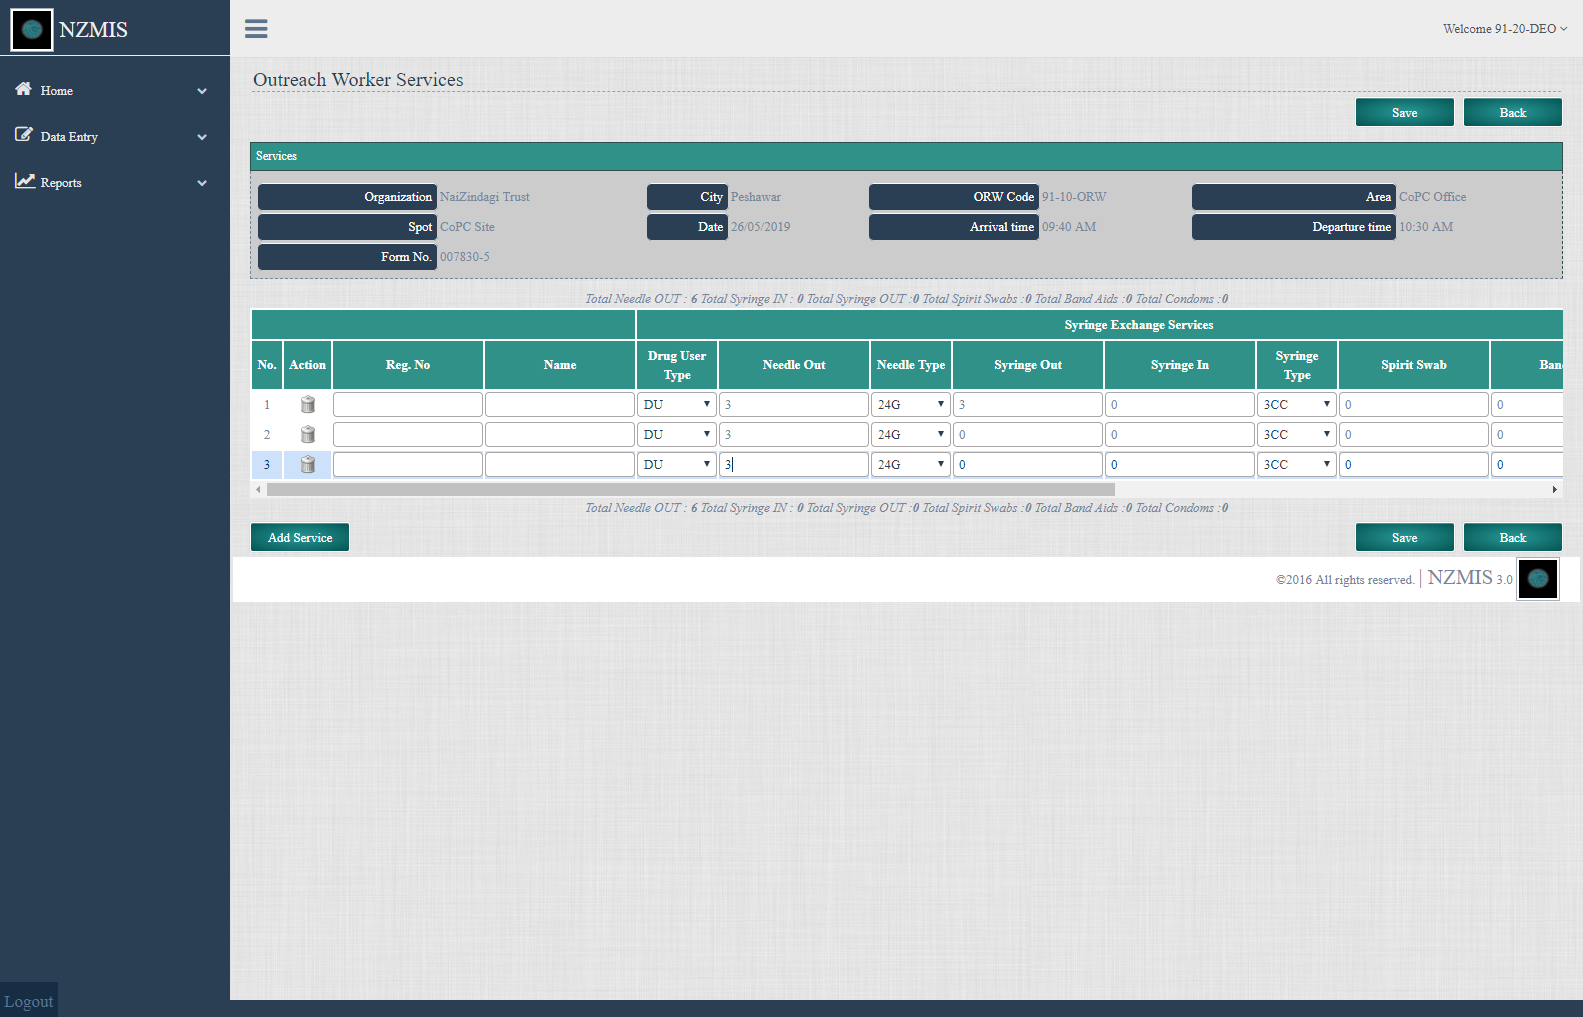
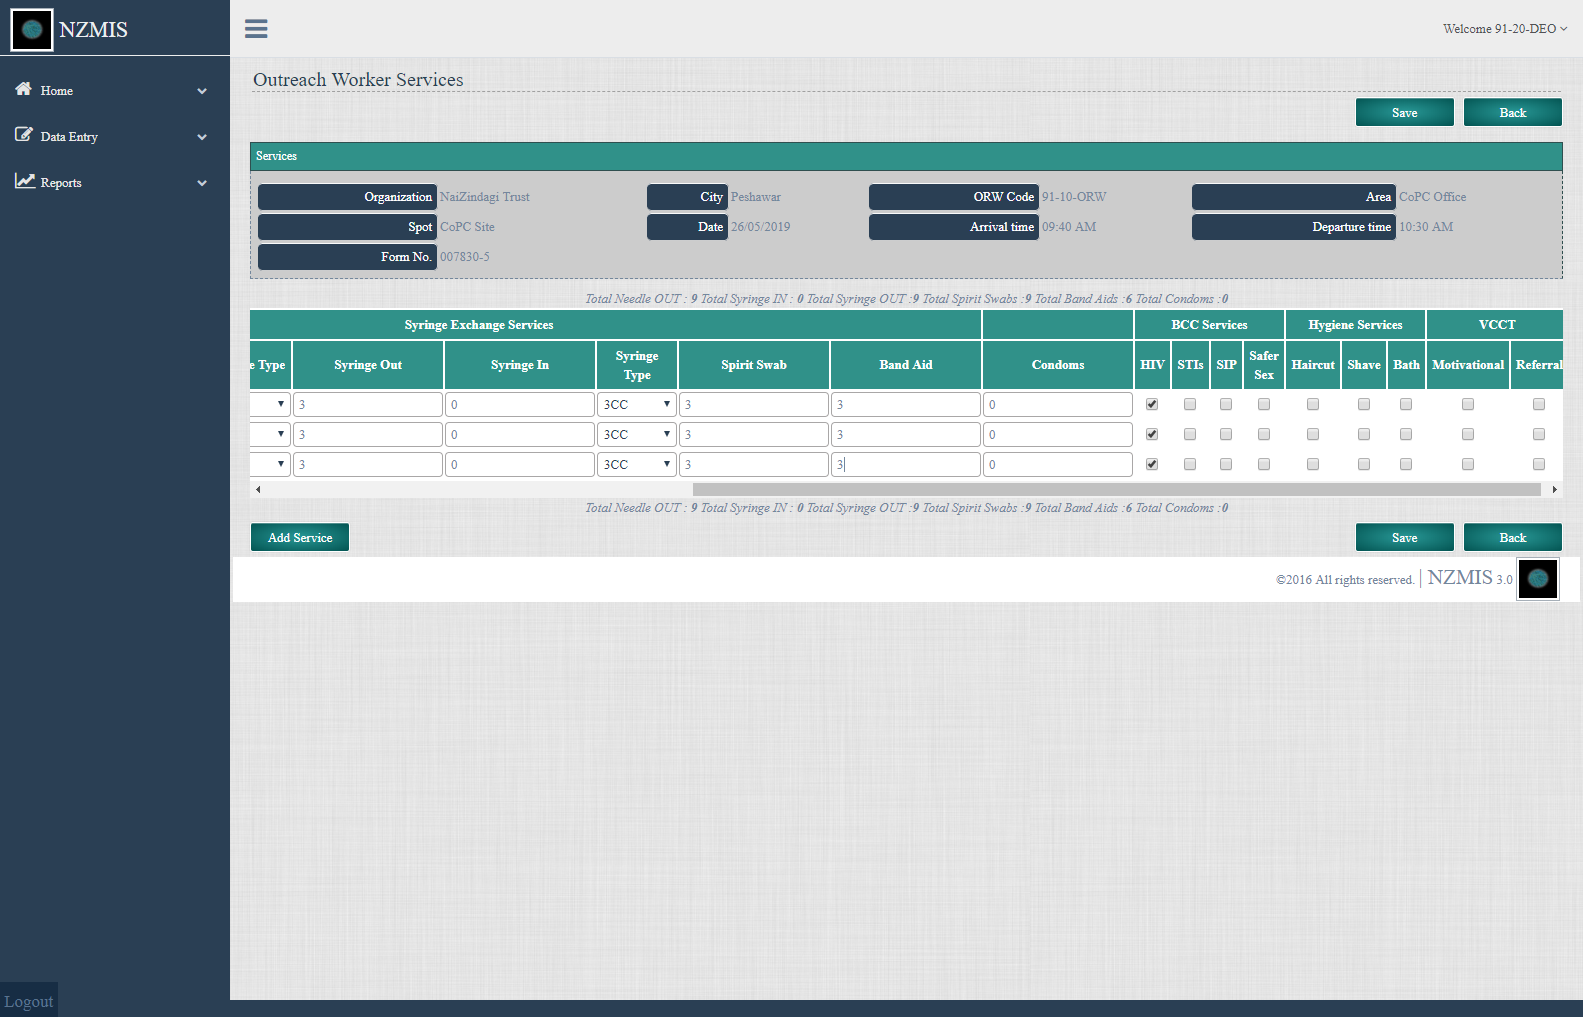
nzmis.js file is ready for auto fill . it fills all input fields and save value in form

diff --git a/nzmis.js b/nzmis.js
@@ -40,24 +40,48 @@ const BCCServices =require('./BCCServices.js');
        }
     });
    
-      
-
-
 //  Now setting Needle Out Values here
-    await page.$$eval("input[data-bind='value: SyringeOut']", element => {
-        element[0].click();
-        element[0].value = 3;
+    await page.$$("input[data-bind='value: SyringeOut']").then(async(ee)=>{
+        for(var i=0; i<ee.length; i++){
+            await ee[i].click({clickCount:2});
+            await ee[i].type('3');
+            }
+
     });
+                                               // element[0].click();
+                                                // element[0].value = 3;
+
 
 // Setting Syring Type to 3CC
-        await page.$$eval("select[name='ctl00$cphRightContent$ddlSringeType']",el=>{
-            for(i=0; i<el.length; i++){
-                el[i].value="3CC"; 
-            }
-        });
+    await page.$$("select[name='ctl00$cphRightContent$ddlSringeType']").then(async(ee)=>{
+        try {
+            for(var i =0; i<ee.length; i++){
+                await ee[i].click();
+                 await ee[i].type("3CC");
+             }
+        } catch (error) {
+            console.log(error);
+        }
+        
+    });
+
+        // await page.$$eval("select[name='ctl00$cphRightContent$ddlSringeType']",el=>{
+        //     for(i=0; i<el.length; i++){
+        //         el[i].value="3CC"; 
+        //     }
+        // });
 
 // Setting SpritSwab values 
-
+    await page.$$("input[data-bind='value: SpiritSwab']").then(async(ee)=>{
+        try {
+            for(var i =0; i<ee.length; i++){
+                await ee[i].click({clickCount:2});
+                 await ee[i].type('3');
+             }
+        } catch (error) {
+            console.log(error);
+        }
+    });  
         // await page.$$eval("input[data-bind='value: SpiritSwab']",el=>{
         //     for(i=0; i<el.length; i++){
         //         el[i].value=3; 
@@ -65,34 +89,45 @@ const BCCServices =require('./BCCServices.js');
         // });
             
 // Setting Band Aid Values  Bandage
+        await page.$$("input[data-bind='value: Bandage']").then(async(ee)=>{
+            try {
+                for(var i =0; i<ee.length; i++){
+                    await ee[i].click({clickCount:2});
+                    await ee[i].type('3');
+                }
+            } catch (error) {
+                console.log(error);
+            }
+        });
             // await page.$$eval("input[data-bind='value: Bandage']",el=>{
             //     for(i=0; i<el.length; i++){
             //         el[i].value=3; 
             //     }
             // });
 
-        // await page.evaluate(()=>{
-        //     let bccservice;
-        //     let message="HIV";
-        //     if(message=="STI"){
-        //         bccservice="IsSTIs";
-        //     }else if(message=="HIV")
-        //     {
-        //         bccservice="IsHIV";
-        //     }else if(message=="SIP") 
-        //     {
-        //         bccservice="IsSIP";
-        //     }else if(message=="Sex")
-        //     {
-        //         bccservice="IsSaferSex";
-        //     }
+        await page.evaluate(()=>{
+            let bccservice;
+            let message="HIV";
+            if(message=="STI"){
+                bccservice="IsSTIs";
+            }else if(message=="HIV")
+            {
+                bccservice="IsHIV";
+            }else if(message=="SIP") 
+            {
+                bccservice="IsSIP";
+            }else if(message=="Sex")
+            {
+                bccservice="IsSaferSex";
+            }
         
-        //     var sti= document.querySelectorAll("input[data-bind='checked: "+bccservice+"']"); 
-        //     for (i=0; i<sti.length; i++) 
-        //         {
-        //             sti[i].checked=true; 
-        //         }
-        // });
+            var sti= document.querySelectorAll("input[data-bind='checked: "+bccservice+"']"); 
+            for (i=0; i<sti.length; i++) 
+                {
+                    sti[i].click();
+                    sti[i].checked=true; 
+                }
+        });
            
         await page.waitFor(2000);
         await page.screenshot({ path: 'nzmisAutomation.png', fullPage: true });
